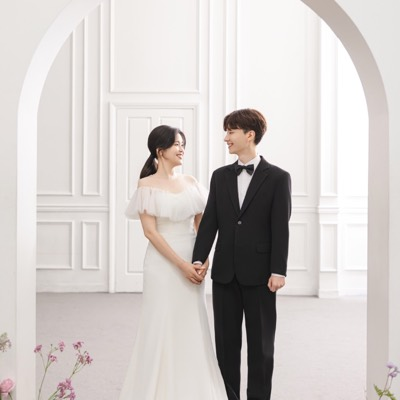
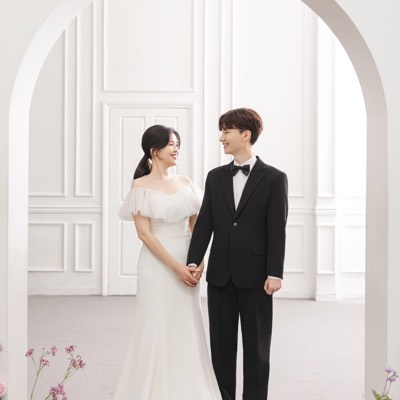
표지 원본을 더 보정된 아치 컷으로 교체
imgs/S_아치두사람.png 을 새 보정본(974x1430)으로 갈아끼우고, 여기서 파생되는
두 파일을 다시 뽑았습니다.

  assets/cover.jpg        표지 크롭 793x1430  (메인, alt2 의 아래쪽 사진)
  alt/assets/g05.jpg/t05  alt 갤러리 5번 2:3 크롭 900x1350

alt2 는 ../assets/cover.jpg 를 참조하므로 따로 손볼 것이 없었습니다.
alt2/assets/cover-a.jpg 는 꽃 컷이라 무관하고, og.jpg 도 꽃 컷 고정이라
그대로입니다.

새 원본은 아치가 이미지 중심보다 19px 왼쪽이라 가운데로 자르면 틀어집니다
(측정: 아치 중심 x=468, 이미지 중심 487). x=72 부터 잘라 아치를 표지
한가운데에 맞췄고, COVER_CROP 도 (0.074, 0, 0.888, 1) 로 고쳤습니다.

처음엔 렌더링 화면에서 아치를 재다가 +23px 틀어졌다고 나왔는데, 왼쪽 다리가
object-fit 에 잘려 엉뚱한 경계를 잡은 탓이었습니다. 원본에서 다시 재서
잡았습니다. 결과 표지 파일 기준 오차 0.5px.

캐시 버전 ?v=21 -> ?v=22 (세 페이지 모두).

확인: 세 페이지 19장 로드 실패 0건 / 버전 누락 0건, 표지 아치 중심 오차 0.1%,
alt 표지는 꽃 컷 그대로(845x1522), alt2 는 표지 사진 2장 유지.

Assisted-by: Claude Code (Opus 5)

diff --git a/alt2/index.html b/alt2/index.html
@@ -10,7 +10,7 @@
 <meta property="og:title" content="이수영 ♥ 이정은 결혼합니다">
 <meta property="og:description" content="2026년 12월 12일 토요일 오후 4시, 세인트메리엘 1층 메리엘홀">
 <meta property="og:url" content="https://suyoung-lee.github.io/wedding/">
-<meta property="og:image" content="https://suyoung-lee.github.io/wedding/assets/og.jpg?v=21">
+<meta property="og:image" content="https://suyoung-lee.github.io/wedding/assets/og.jpg?v=22">
 <meta name="description" content="2026년 12월 12일 토요일 오후 4시, 세인트메리엘 1층 메리엘홀">
 <meta name="robots" content="noindex, nofollow">   <!-- 비교용 미리보기 -->
 <meta name="theme-color" content="#fbfaf7">
@@ -288,8 +288,8 @@
   <header class="cover">
     <div class="photo noSave">
       <!-- 아래: 얼굴이 보이는 컷(현재 메인 표지). 위: 꽃으로 가린 컷 — 스크롤하면 걷힙니다. -->
-      <img src="../assets/cover.jpg?v=21" alt="신랑 이수영, 신부 이정은" draggable="false">
-      <img class="veil" src="assets/cover-a.jpg?v=21" alt="" aria-hidden="true" draggable="false">
+      <img src="../assets/cover.jpg?v=22" alt="신랑 이수영, 신부 이정은" draggable="false">
+      <img class="veil" src="assets/cover-a.jpg?v=22" alt="" aria-hidden="true" draggable="false">
     </div>
     <div class="fade"></div>
     <div class="frame"></div>
@@ -360,25 +360,25 @@
   <section>
     <p class="label">Gallery</p>
     <div class="grid collapsed noSave" id="grid">
-      <button class="ph wide" type="button" data-full="../assets/g01.jpg?v=21" aria-label="웨딩 사진 1번, 크게 보기"><img src="../assets/wide.jpg?v=21" alt="" loading="lazy"></button>
-      <button class="ph" type="button" data-full="../assets/g02.jpg?v=21" aria-label="웨딩 사진 2번, 크게 보기"><img src="../assets/t02.jpg?v=21" alt="" loading="lazy"></button>
-      <button class="ph" type="button" data-full="../assets/g03.jpg?v=21" aria-label="웨딩 사진 3번, 크게 보기"><img src="../assets/t03.jpg?v=21" alt="" loading="lazy"></button>
-      <button class="ph" type="button" data-full="../assets/g04.jpg?v=21" aria-label="웨딩 사진 4번, 크게 보기"><img src="../assets/t04.jpg?v=21" alt="" loading="lazy"></button>
-      <button class="ph" type="button" data-full="../assets/g05.jpg?v=21" aria-label="웨딩 사진 5번, 크게 보기"><img src="../assets/t05.jpg?v=21" alt="" loading="lazy"></button>
-      <button class="ph" type="button" data-full="../assets/g06.jpg?v=21" aria-label="웨딩 사진 6번, 크게 보기"><img src="../assets/t06.jpg?v=21" alt="" loading="lazy"></button>
-      <button class="ph" type="button" data-full="../assets/g07.jpg?v=21" aria-label="웨딩 사진 7번, 크게 보기"><img src="../assets/t07.jpg?v=21" alt="" loading="lazy"></button>
-      <button class="ph" type="button" data-full="../assets/g08.jpg?v=21" aria-label="웨딩 사진 8번, 크게 보기"><img src="../assets/t08.jpg?v=21" alt="" loading="lazy"></button>
-      <button class="ph" type="button" data-full="../assets/g09.jpg?v=21" aria-label="웨딩 사진 9번, 크게 보기"><img src="../assets/t09.jpg?v=21" alt="" loading="lazy"></button>
-      <button class="ph" type="button" data-full="../assets/g10.jpg?v=21" aria-label="웨딩 사진 10번, 크게 보기"><img src="../assets/t10.jpg?v=21" alt="" loading="lazy"></button>
-      <button class="ph" type="button" data-full="../assets/g11.jpg?v=21" aria-label="웨딩 사진 11번, 크게 보기"><img src="../assets/t11.jpg?v=21" alt="" loading="lazy"></button>
-      <button class="ph" type="button" data-full="../assets/g12.jpg?v=21" aria-label="웨딩 사진 12번, 크게 보기"><img src="../assets/t12.jpg?v=21" alt="" loading="lazy"></button>
-      <button class="ph" type="button" data-full="../assets/g13.jpg?v=21" aria-label="웨딩 사진 13번, 크게 보기"><img src="../assets/t13.jpg?v=21" alt="" loading="lazy"></button>
-      <button class="ph" type="button" data-full="../assets/g14.jpg?v=21" aria-label="웨딩 사진 14번, 크게 보기"><img src="../assets/t14.jpg?v=21" alt="" loading="lazy"></button>
-      <button class="ph" type="button" data-full="../assets/g15.jpg?v=21" aria-label="웨딩 사진 15번, 크게 보기"><img src="../assets/t15.jpg?v=21" alt="" loading="lazy"></button>
-      <button class="ph" type="button" data-full="../assets/g16.jpg?v=21" aria-label="웨딩 사진 16번, 크게 보기"><img src="../assets/t16.jpg?v=21" alt="" loading="lazy"></button>
-      <button class="ph" type="button" data-full="../assets/g17.jpg?v=21" aria-label="웨딩 사진 17번, 크게 보기"><img src="../assets/t17.jpg?v=21" alt="" loading="lazy"></button>
-      <button class="ph" type="button" data-full="../assets/g18.jpg?v=21" aria-label="웨딩 사진 18번, 크게 보기"><img src="../assets/t18.jpg?v=21" alt="" loading="lazy"></button>
-      <button class="ph" type="button" data-full="../assets/g19.jpg?v=21" aria-label="웨딩 사진 19번, 크게 보기"><img src="../assets/t19.jpg?v=21" alt="" loading="lazy"></button>
+      <button class="ph wide" type="button" data-full="../assets/g01.jpg?v=22" aria-label="웨딩 사진 1번, 크게 보기"><img src="../assets/wide.jpg?v=22" alt="" loading="lazy"></button>
+      <button class="ph" type="button" data-full="../assets/g02.jpg?v=22" aria-label="웨딩 사진 2번, 크게 보기"><img src="../assets/t02.jpg?v=22" alt="" loading="lazy"></button>
+      <button class="ph" type="button" data-full="../assets/g03.jpg?v=22" aria-label="웨딩 사진 3번, 크게 보기"><img src="../assets/t03.jpg?v=22" alt="" loading="lazy"></button>
+      <button class="ph" type="button" data-full="../assets/g04.jpg?v=22" aria-label="웨딩 사진 4번, 크게 보기"><img src="../assets/t04.jpg?v=22" alt="" loading="lazy"></button>
+      <button class="ph" type="button" data-full="../assets/g05.jpg?v=22" aria-label="웨딩 사진 5번, 크게 보기"><img src="../assets/t05.jpg?v=22" alt="" loading="lazy"></button>
+      <button class="ph" type="button" data-full="../assets/g06.jpg?v=22" aria-label="웨딩 사진 6번, 크게 보기"><img src="../assets/t06.jpg?v=22" alt="" loading="lazy"></button>
+      <button class="ph" type="button" data-full="../assets/g07.jpg?v=22" aria-label="웨딩 사진 7번, 크게 보기"><img src="../assets/t07.jpg?v=22" alt="" loading="lazy"></button>
+      <button class="ph" type="button" data-full="../assets/g08.jpg?v=22" aria-label="웨딩 사진 8번, 크게 보기"><img src="../assets/t08.jpg?v=22" alt="" loading="lazy"></button>
+      <button class="ph" type="button" data-full="../assets/g09.jpg?v=22" aria-label="웨딩 사진 9번, 크게 보기"><img src="../assets/t09.jpg?v=22" alt="" loading="lazy"></button>
+      <button class="ph" type="button" data-full="../assets/g10.jpg?v=22" aria-label="웨딩 사진 10번, 크게 보기"><img src="../assets/t10.jpg?v=22" alt="" loading="lazy"></button>
+      <button class="ph" type="button" data-full="../assets/g11.jpg?v=22" aria-label="웨딩 사진 11번, 크게 보기"><img src="../assets/t11.jpg?v=22" alt="" loading="lazy"></button>
+      <button class="ph" type="button" data-full="../assets/g12.jpg?v=22" aria-label="웨딩 사진 12번, 크게 보기"><img src="../assets/t12.jpg?v=22" alt="" loading="lazy"></button>
+      <button class="ph" type="button" data-full="../assets/g13.jpg?v=22" aria-label="웨딩 사진 13번, 크게 보기"><img src="../assets/t13.jpg?v=22" alt="" loading="lazy"></button>
+      <button class="ph" type="button" data-full="../assets/g14.jpg?v=22" aria-label="웨딩 사진 14번, 크게 보기"><img src="../assets/t14.jpg?v=22" alt="" loading="lazy"></button>
+      <button class="ph" type="button" data-full="../assets/g15.jpg?v=22" aria-label="웨딩 사진 15번, 크게 보기"><img src="../assets/t15.jpg?v=22" alt="" loading="lazy"></button>
+      <button class="ph" type="button" data-full="../assets/g16.jpg?v=22" aria-label="웨딩 사진 16번, 크게 보기"><img src="../assets/t16.jpg?v=22" alt="" loading="lazy"></button>
+      <button class="ph" type="button" data-full="../assets/g17.jpg?v=22" aria-label="웨딩 사진 17번, 크게 보기"><img src="../assets/t17.jpg?v=22" alt="" loading="lazy"></button>
+      <button class="ph" type="button" data-full="../assets/g18.jpg?v=22" aria-label="웨딩 사진 18번, 크게 보기"><img src="../assets/t18.jpg?v=22" alt="" loading="lazy"></button>
+      <button class="ph" type="button" data-full="../assets/g19.jpg?v=22" aria-label="웨딩 사진 19번, 크게 보기"><img src="../assets/t19.jpg?v=22" alt="" loading="lazy"></button>
     </div>
     <button class="more" type="button" id="more">사진 더보기<span class="chev" aria-hidden="true"></span></button>
   </section>
@@ -391,8 +391,8 @@
     <h2>세인트메리엘</h2>
     <p class="sub">1층 메리엘홀</p>
 
-    <a class="mapWrap noSave" href="../assets/map-full.png?v=21" target="_blank" rel="noopener">
-      <img src="../assets/map.png?v=21" alt="세인트메리엘 약도" loading="lazy" draggable="false">
+    <a class="mapWrap noSave" href="../assets/map-full.png?v=22" target="_blank" rel="noopener">
+      <img src="../assets/map.png?v=22" alt="세인트메리엘 약도" loading="lazy" draggable="false">
     </a>
     <p class="mapHint">약도를 누르면 크게 볼 수 있습니다</p>
 

diff --git a/alt/index.html b/alt/index.html
@@ -10,7 +10,7 @@
 <meta property="og:title" content="이수영 ♥ 이정은 결혼합니다">
 <meta property="og:description" content="2026년 12월 12일 토요일 오후 4시, 세인트메리엘 1층 메리엘홀">
 <meta property="og:url" content="https://suyoung-lee.github.io/wedding/">
-<meta property="og:image" content="https://suyoung-lee.github.io/wedding/assets/og.jpg?v=21">
+<meta property="og:image" content="https://suyoung-lee.github.io/wedding/assets/og.jpg?v=22">
 <meta name="description" content="2026년 12월 12일 토요일 오후 4시, 세인트메리엘 1층 메리엘홀">
 <meta name="robots" content="noindex, nofollow">   <!-- 보관용 이전 배치 -->
 <meta name="theme-color" content="#fbfaf7">
@@ -284,7 +284,7 @@
   <!-- ══════════ 표지 ══════════ -->
   <header class="cover">
     <div class="photo noSave">
-      <img src="assets/cover.jpg?v=21" alt="신랑 이수영, 신부 이정은" draggable="false">
+      <img src="assets/cover.jpg?v=22" alt="신랑 이수영, 신부 이정은" draggable="false">
     </div>
     <div class="fade"></div>
     <div class="frame"></div>
@@ -355,25 +355,25 @@
   <section>
     <p class="label">Gallery</p>
     <div class="grid collapsed noSave" id="grid">
-      <button class="ph wide" type="button" data-full="../assets/g01.jpg?v=21" aria-label="웨딩 사진 1번, 크게 보기"><img src="../assets/wide.jpg?v=21" alt="" loading="lazy"></button>
-      <button class="ph" type="button" data-full="../assets/g02.jpg?v=21" aria-label="웨딩 사진 2번, 크게 보기"><img src="../assets/t02.jpg?v=21" alt="" loading="lazy"></button>
-      <button class="ph" type="button" data-full="../assets/g03.jpg?v=21" aria-label="웨딩 사진 3번, 크게 보기"><img src="../assets/t03.jpg?v=21" alt="" loading="lazy"></button>
-      <button class="ph" type="button" data-full="../assets/g04.jpg?v=21" aria-label="웨딩 사진 4번, 크게 보기"><img src="../assets/t04.jpg?v=21" alt="" loading="lazy"></button>
-      <button class="ph" type="button" data-full="assets/g05.jpg?v=21" aria-label="웨딩 사진 5번, 크게 보기"><img src="assets/t05.jpg?v=21" alt="" loading="lazy"></button>
-      <button class="ph" type="button" data-full="../assets/g06.jpg?v=21" aria-label="웨딩 사진 6번, 크게 보기"><img src="../assets/t06.jpg?v=21" alt="" loading="lazy"></button>
-      <button class="ph" type="button" data-full="../assets/g05.jpg?v=21" aria-label="웨딩 사진 7번, 크게 보기"><img src="../assets/t05.jpg?v=21" alt="" loading="lazy"></button>
-      <button class="ph" type="button" data-full="../assets/g07.jpg?v=21" aria-label="웨딩 사진 8번, 크게 보기"><img src="../assets/t07.jpg?v=21" alt="" loading="lazy"></button>
-      <button class="ph" type="button" data-full="../assets/g09.jpg?v=21" aria-label="웨딩 사진 9번, 크게 보기"><img src="../assets/t09.jpg?v=21" alt="" loading="lazy"></button>
-      <button class="ph" type="button" data-full="../assets/g10.jpg?v=21" aria-label="웨딩 사진 10번, 크게 보기"><img src="../assets/t10.jpg?v=21" alt="" loading="lazy"></button>
-      <button class="ph" type="button" data-full="../assets/g11.jpg?v=21" aria-label="웨딩 사진 11번, 크게 보기"><img src="../assets/t11.jpg?v=21" alt="" loading="lazy"></button>
-      <button class="ph" type="button" data-full="../assets/g12.jpg?v=21" aria-label="웨딩 사진 12번, 크게 보기"><img src="../assets/t12.jpg?v=21" alt="" loading="lazy"></button>
-      <button class="ph" type="button" data-full="../assets/g13.jpg?v=21" aria-label="웨딩 사진 13번, 크게 보기"><img src="../assets/t13.jpg?v=21" alt="" loading="lazy"></button>
-      <button class="ph" type="button" data-full="../assets/g14.jpg?v=21" aria-label="웨딩 사진 14번, 크게 보기"><img src="../assets/t14.jpg?v=21" alt="" loading="lazy"></button>
-      <button class="ph" type="button" data-full="../assets/g15.jpg?v=21" aria-label="웨딩 사진 15번, 크게 보기"><img src="../assets/t15.jpg?v=21" alt="" loading="lazy"></button>
-      <button class="ph" type="button" data-full="../assets/g16.jpg?v=21" aria-label="웨딩 사진 16번, 크게 보기"><img src="../assets/t16.jpg?v=21" alt="" loading="lazy"></button>
-      <button class="ph" type="button" data-full="../assets/g17.jpg?v=21" aria-label="웨딩 사진 17번, 크게 보기"><img src="../assets/t17.jpg?v=21" alt="" loading="lazy"></button>
-      <button class="ph" type="button" data-full="../assets/g18.jpg?v=21" aria-label="웨딩 사진 18번, 크게 보기"><img src="../assets/t18.jpg?v=21" alt="" loading="lazy"></button>
-      <button class="ph" type="button" data-full="../assets/g19.jpg?v=21" aria-label="웨딩 사진 19번, 크게 보기"><img src="../assets/t19.jpg?v=21" alt="" loading="lazy"></button>
+      <button class="ph wide" type="button" data-full="../assets/g01.jpg?v=22" aria-label="웨딩 사진 1번, 크게 보기"><img src="../assets/wide.jpg?v=22" alt="" loading="lazy"></button>
+      <button class="ph" type="button" data-full="../assets/g02.jpg?v=22" aria-label="웨딩 사진 2번, 크게 보기"><img src="../assets/t02.jpg?v=22" alt="" loading="lazy"></button>
+      <button class="ph" type="button" data-full="../assets/g03.jpg?v=22" aria-label="웨딩 사진 3번, 크게 보기"><img src="../assets/t03.jpg?v=22" alt="" loading="lazy"></button>
+      <button class="ph" type="button" data-full="../assets/g04.jpg?v=22" aria-label="웨딩 사진 4번, 크게 보기"><img src="../assets/t04.jpg?v=22" alt="" loading="lazy"></button>
+      <button class="ph" type="button" data-full="assets/g05.jpg?v=22" aria-label="웨딩 사진 5번, 크게 보기"><img src="assets/t05.jpg?v=22" alt="" loading="lazy"></button>
+      <button class="ph" type="button" data-full="../assets/g06.jpg?v=22" aria-label="웨딩 사진 6번, 크게 보기"><img src="../assets/t06.jpg?v=22" alt="" loading="lazy"></button>
+      <button class="ph" type="button" data-full="../assets/g05.jpg?v=22" aria-label="웨딩 사진 7번, 크게 보기"><img src="../assets/t05.jpg?v=22" alt="" loading="lazy"></button>
+      <button class="ph" type="button" data-full="../assets/g07.jpg?v=22" aria-label="웨딩 사진 8번, 크게 보기"><img src="../assets/t07.jpg?v=22" alt="" loading="lazy"></button>
+      <button class="ph" type="button" data-full="../assets/g09.jpg?v=22" aria-label="웨딩 사진 9번, 크게 보기"><img src="../assets/t09.jpg?v=22" alt="" loading="lazy"></button>
+      <button class="ph" type="button" data-full="../assets/g10.jpg?v=22" aria-label="웨딩 사진 10번, 크게 보기"><img src="../assets/t10.jpg?v=22" alt="" loading="lazy"></button>
+      <button class="ph" type="button" data-full="../assets/g11.jpg?v=22" aria-label="웨딩 사진 11번, 크게 보기"><img src="../assets/t11.jpg?v=22" alt="" loading="lazy"></button>
+      <button class="ph" type="button" data-full="../assets/g12.jpg?v=22" aria-label="웨딩 사진 12번, 크게 보기"><img src="../assets/t12.jpg?v=22" alt="" loading="lazy"></button>
+      <button class="ph" type="button" data-full="../assets/g13.jpg?v=22" aria-label="웨딩 사진 13번, 크게 보기"><img src="../assets/t13.jpg?v=22" alt="" loading="lazy"></button>
+      <button class="ph" type="button" data-full="../assets/g14.jpg?v=22" aria-label="웨딩 사진 14번, 크게 보기"><img src="../assets/t14.jpg?v=22" alt="" loading="lazy"></button>
+      <button class="ph" type="button" data-full="../assets/g15.jpg?v=22" aria-label="웨딩 사진 15번, 크게 보기"><img src="../assets/t15.jpg?v=22" alt="" loading="lazy"></button>
+      <button class="ph" type="button" data-full="../assets/g16.jpg?v=22" aria-label="웨딩 사진 16번, 크게 보기"><img src="../assets/t16.jpg?v=22" alt="" loading="lazy"></button>
+      <button class="ph" type="button" data-full="../assets/g17.jpg?v=22" aria-label="웨딩 사진 17번, 크게 보기"><img src="../assets/t17.jpg?v=22" alt="" loading="lazy"></button>
+      <button class="ph" type="button" data-full="../assets/g18.jpg?v=22" aria-label="웨딩 사진 18번, 크게 보기"><img src="../assets/t18.jpg?v=22" alt="" loading="lazy"></button>
+      <button class="ph" type="button" data-full="../assets/g19.jpg?v=22" aria-label="웨딩 사진 19번, 크게 보기"><img src="../assets/t19.jpg?v=22" alt="" loading="lazy"></button>
     </div>
     <button class="more" type="button" id="more">사진 더보기<span class="chev" aria-hidden="true"></span></button>
   </section>
@@ -386,8 +386,8 @@
     <h2>세인트메리엘</h2>
     <p class="sub">1층 메리엘홀</p>
 
-    <a class="mapWrap noSave" href="../assets/map-full.png?v=21" target="_blank" rel="noopener">
-      <img src="../assets/map.png?v=21" alt="세인트메리엘 약도" loading="lazy" draggable="false">
+    <a class="mapWrap noSave" href="../assets/map-full.png?v=22" target="_blank" rel="noopener">
+      <img src="../assets/map.png?v=22" alt="세인트메리엘 약도" loading="lazy" draggable="false">
     </a>
     <p class="mapHint">약도를 누르면 크게 볼 수 있습니다</p>
 

diff --git a/index.html b/index.html
@@ -10,7 +10,7 @@
 <meta property="og:title" content="이수영 ♥ 이정은 결혼합니다">
 <meta property="og:description" content="2026년 12월 12일 토요일 오후 4시, 세인트메리엘 1층 메리엘홀">
 <meta property="og:url" content="https://suyoung-lee.github.io/wedding/">
-<meta property="og:image" content="https://suyoung-lee.github.io/wedding/assets/og.jpg?v=21">
+<meta property="og:image" content="https://suyoung-lee.github.io/wedding/assets/og.jpg?v=22">
 <meta name="description" content="2026년 12월 12일 토요일 오후 4시, 세인트메리엘 1층 메리엘홀">
 <meta name="theme-color" content="#fbfaf7">
 
@@ -283,7 +283,7 @@
   <!-- ══════════ 표지 ══════════ -->
   <header class="cover">
     <div class="photo noSave">
-      <img src="assets/cover.jpg?v=21" alt="신랑 이수영, 신부 이정은" draggable="false">
+      <img src="assets/cover.jpg?v=22" alt="신랑 이수영, 신부 이정은" draggable="false">
     </div>
     <div class="fade"></div>
     <div class="frame"></div>
@@ -354,25 +354,25 @@
   <section>
     <p class="label">Gallery</p>
     <div class="grid collapsed noSave" id="grid">
-      <button class="ph wide" type="button" data-full="assets/g01.jpg?v=21" aria-label="웨딩 사진 1번, 크게 보기"><img src="assets/wide.jpg?v=21" alt="" loading="lazy"></button>
-      <button class="ph" type="button" data-full="assets/g02.jpg?v=21" aria-label="웨딩 사진 2번, 크게 보기"><img src="assets/t02.jpg?v=21" alt="" loading="lazy"></button>
-      <button class="ph" type="button" data-full="assets/g03.jpg?v=21" aria-label="웨딩 사진 3번, 크게 보기"><img src="assets/t03.jpg?v=21" alt="" loading="lazy"></button>
-      <button class="ph" type="button" data-full="assets/g04.jpg?v=21" aria-label="웨딩 사진 4번, 크게 보기"><img src="assets/t04.jpg?v=21" alt="" loading="lazy"></button>
-      <button class="ph" type="button" data-full="assets/g05.jpg?v=21" aria-label="웨딩 사진 5번, 크게 보기"><img src="assets/t05.jpg?v=21" alt="" loading="lazy"></button>
-      <button class="ph" type="button" data-full="assets/g06.jpg?v=21" aria-label="웨딩 사진 6번, 크게 보기"><img src="assets/t06.jpg?v=21" alt="" loading="lazy"></button>
-      <button class="ph" type="button" data-full="assets/g07.jpg?v=21" aria-label="웨딩 사진 7번, 크게 보기"><img src="assets/t07.jpg?v=21" alt="" loading="lazy"></button>
-      <button class="ph" type="button" data-full="assets/g08.jpg?v=21" aria-label="웨딩 사진 8번, 크게 보기"><img src="assets/t08.jpg?v=21" alt="" loading="lazy"></button>
-      <button class="ph" type="button" data-full="assets/g09.jpg?v=21" aria-label="웨딩 사진 9번, 크게 보기"><img src="assets/t09.jpg?v=21" alt="" loading="lazy"></button>
-      <button class="ph" type="button" data-full="assets/g10.jpg?v=21" aria-label="웨딩 사진 10번, 크게 보기"><img src="assets/t10.jpg?v=21" alt="" loading="lazy"></button>
-      <button class="ph" type="button" data-full="assets/g11.jpg?v=21" aria-label="웨딩 사진 11번, 크게 보기"><img src="assets/t11.jpg?v=21" alt="" loading="lazy"></button>
-      <button class="ph" type="button" data-full="assets/g12.jpg?v=21" aria-label="웨딩 사진 12번, 크게 보기"><img src="assets/t12.jpg?v=21" alt="" loading="lazy"></button>
-      <button class="ph" type="button" data-full="assets/g13.jpg?v=21" aria-label="웨딩 사진 13번, 크게 보기"><img src="assets/t13.jpg?v=21" alt="" loading="lazy"></button>
-      <button class="ph" type="button" data-full="assets/g14.jpg?v=21" aria-label="웨딩 사진 14번, 크게 보기"><img src="assets/t14.jpg?v=21" alt="" loading="lazy"></button>
-      <button class="ph" type="button" data-full="assets/g15.jpg?v=21" aria-label="웨딩 사진 15번, 크게 보기"><img src="assets/t15.jpg?v=21" alt="" loading="lazy"></button>
-      <button class="ph" type="button" data-full="assets/g16.jpg?v=21" aria-label="웨딩 사진 16번, 크게 보기"><img src="assets/t16.jpg?v=21" alt="" loading="lazy"></button>
-      <button class="ph" type="button" data-full="assets/g17.jpg?v=21" aria-label="웨딩 사진 17번, 크게 보기"><img src="assets/t17.jpg?v=21" alt="" loading="lazy"></button>
-      <button class="ph" type="button" data-full="assets/g18.jpg?v=21" aria-label="웨딩 사진 18번, 크게 보기"><img src="assets/t18.jpg?v=21" alt="" loading="lazy"></button>
-      <button class="ph" type="button" data-full="assets/g19.jpg?v=21" aria-label="웨딩 사진 19번, 크게 보기"><img src="assets/t19.jpg?v=21" alt="" loading="lazy"></button>
+      <button class="ph wide" type="button" data-full="assets/g01.jpg?v=22" aria-label="웨딩 사진 1번, 크게 보기"><img src="assets/wide.jpg?v=22" alt="" loading="lazy"></button>
+      <button class="ph" type="button" data-full="assets/g02.jpg?v=22" aria-label="웨딩 사진 2번, 크게 보기"><img src="assets/t02.jpg?v=22" alt="" loading="lazy"></button>
+      <button class="ph" type="button" data-full="assets/g03.jpg?v=22" aria-label="웨딩 사진 3번, 크게 보기"><img src="assets/t03.jpg?v=22" alt="" loading="lazy"></button>
+      <button class="ph" type="button" data-full="assets/g04.jpg?v=22" aria-label="웨딩 사진 4번, 크게 보기"><img src="assets/t04.jpg?v=22" alt="" loading="lazy"></button>
+      <button class="ph" type="button" data-full="assets/g05.jpg?v=22" aria-label="웨딩 사진 5번, 크게 보기"><img src="assets/t05.jpg?v=22" alt="" loading="lazy"></button>
+      <button class="ph" type="button" data-full="assets/g06.jpg?v=22" aria-label="웨딩 사진 6번, 크게 보기"><img src="assets/t06.jpg?v=22" alt="" loading="lazy"></button>
+      <button class="ph" type="button" data-full="assets/g07.jpg?v=22" aria-label="웨딩 사진 7번, 크게 보기"><img src="assets/t07.jpg?v=22" alt="" loading="lazy"></button>
+      <button class="ph" type="button" data-full="assets/g08.jpg?v=22" aria-label="웨딩 사진 8번, 크게 보기"><img src="assets/t08.jpg?v=22" alt="" loading="lazy"></button>
+      <button class="ph" type="button" data-full="assets/g09.jpg?v=22" aria-label="웨딩 사진 9번, 크게 보기"><img src="assets/t09.jpg?v=22" alt="" loading="lazy"></button>
+      <button class="ph" type="button" data-full="assets/g10.jpg?v=22" aria-label="웨딩 사진 10번, 크게 보기"><img src="assets/t10.jpg?v=22" alt="" loading="lazy"></button>
+      <button class="ph" type="button" data-full="assets/g11.jpg?v=22" aria-label="웨딩 사진 11번, 크게 보기"><img src="assets/t11.jpg?v=22" alt="" loading="lazy"></button>
+      <button class="ph" type="button" data-full="assets/g12.jpg?v=22" aria-label="웨딩 사진 12번, 크게 보기"><img src="assets/t12.jpg?v=22" alt="" loading="lazy"></button>
+      <button class="ph" type="button" data-full="assets/g13.jpg?v=22" aria-label="웨딩 사진 13번, 크게 보기"><img src="assets/t13.jpg?v=22" alt="" loading="lazy"></button>
+      <button class="ph" type="button" data-full="assets/g14.jpg?v=22" aria-label="웨딩 사진 14번, 크게 보기"><img src="assets/t14.jpg?v=22" alt="" loading="lazy"></button>
+      <button class="ph" type="button" data-full="assets/g15.jpg?v=22" aria-label="웨딩 사진 15번, 크게 보기"><img src="assets/t15.jpg?v=22" alt="" loading="lazy"></button>
+      <button class="ph" type="button" data-full="assets/g16.jpg?v=22" aria-label="웨딩 사진 16번, 크게 보기"><img src="assets/t16.jpg?v=22" alt="" loading="lazy"></button>
+      <button class="ph" type="button" data-full="assets/g17.jpg?v=22" aria-label="웨딩 사진 17번, 크게 보기"><img src="assets/t17.jpg?v=22" alt="" loading="lazy"></button>
+      <button class="ph" type="button" data-full="assets/g18.jpg?v=22" aria-label="웨딩 사진 18번, 크게 보기"><img src="assets/t18.jpg?v=22" alt="" loading="lazy"></button>
+      <button class="ph" type="button" data-full="assets/g19.jpg?v=22" aria-label="웨딩 사진 19번, 크게 보기"><img src="assets/t19.jpg?v=22" alt="" loading="lazy"></button>
     </div>
     <button class="more" type="button" id="more">사진 더보기<span class="chev" aria-hidden="true"></span></button>
   </section>
@@ -385,8 +385,8 @@
     <h2>세인트메리엘</h2>
     <p class="sub">1층 메리엘홀</p>
 
-    <a class="mapWrap noSave" href="assets/map-full.png?v=21" target="_blank" rel="noopener">
-      <img src="assets/map.png?v=21" alt="세인트메리엘 약도" loading="lazy" draggable="false">
+    <a class="mapWrap noSave" href="assets/map-full.png?v=22" target="_blank" rel="noopener">
+      <img src="assets/map.png?v=22" alt="세인트메리엘 약도" loading="lazy" draggable="false">
     </a>
     <p class="mapHint">약도를 누르면 크게 볼 수 있습니다</p>
 
